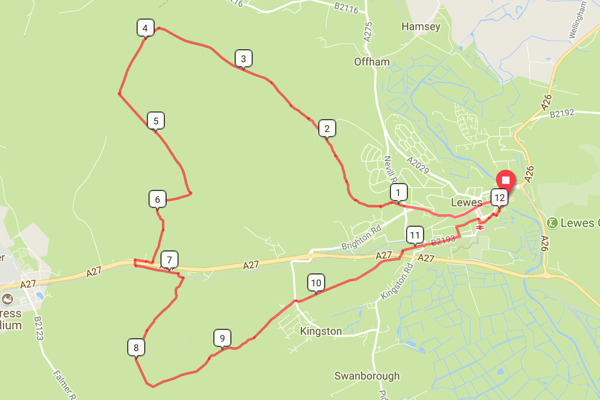
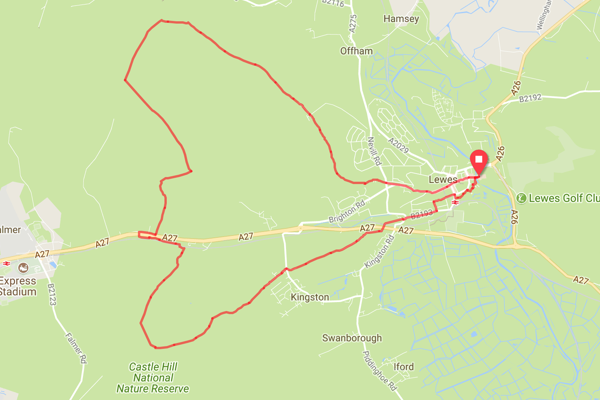
Add 2018 ride route.

diff --git a/_site/index.html b/_site/index.html
@@ -28,8 +28,8 @@
 			<h2 class="p-name">Next Club Ride</h2>
 			<p><strong>» SPECIAL EVENT</strong><br>We’re putting on a special Saturday MTB ride to coincide with the <a href="https://lewesdepot.org/" target="_blank">Lewes Depot</a> Cycle Film Festival over the weekend of the 14th and 15th April.</p>
 			<p>Join us on Saturday <time class="dt-start" datetime="2018-04-14 08:30">14<sup>th</sup> April 2018, from 08:30</time> to <time class="dt-end" datetime="2018-04-14 11:00">11:00</time>* leaving from <a href="https://goo.gl/maps/puKhApf55eT2"><span class="p-location">Cliffe Cycleshack, Lewes</span></a></p>
-			<p class="p-summary">SDW loop (shortened) - Blackcap, Stanmer Park <em>(direction anti-clockwise)</em>.</p>
-			<p><small><em>* Ride times may differ. Times depend on weather, group capabilities ect.</em></small></p>
+			<p class="p-summary">SWD Loop (Lewes, Blackcap, Falmer, Kingston, Lewes), direction anti-clockwise.</p>
+			<p><small><em>* Ride times may differ. Times depend on weather, group capabilities ect. We will try to provide a dropout route for those that that require a shorter route, please note that drop out routes may not be ridden by the ride leader.</em></small></p>
 			<img src="assets/img/special-event/lewes-mtb-club-cycleshack-depot-cycle-film-festival.jpg" alt="">
 		</div>
 		
@@ -38,11 +38,20 @@
 	<div class="wrapping" id="where-we-ride">
 		
 		<h2 class="">Where We Ride</h2>
-		
+		<div class="">
+			<img src="assets/img/routes/lewes-mtb-club-route-small-1.png" alt="">
+			<ul>
+				<li>SWD Loop - shortened with A27 cyclepath dropout option (Lewes, Blackcap, Falmer, Lewes)</li>
+				<li>Size: Small</li>
+				<li>Distance: ~10 miles or ~16 km</li>
+				<li><a href="https://ridewithgps.com/routes/27144669" target="_blank">View the route on Ride With GPS</a></li>
+			</ul>
+			<hr>
+		</div>
 		<div class="">
 			<img src="assets/img/routes/lewes-mtb-club-route-medium-1.png" alt="">
 			<ul>
-				<li>SWD Loop (Lewes, Blackcap, Stanmer Park, Kingston, Lewes)</li>
+				<li>SWD Loop (Lewes, Blackcap, Falmer, Kingston, Lewes)</li>
 				<li>Size: Medium</li>
 				<li>Distance: ~12 miles or ~20 km</li>
 				<li><a href="https://ridewithgps.com/routes/17255851" target="_blank">View the route on Ride With GPS</a></li>
@@ -54,7 +63,7 @@
 			<ul>
 				<li>SWD Loop (Lewes, Blackcap, Stanmer Park, Kingston, Lewes)</li>
 				<li>Size: Medium</li>
-				<li>Distance: ~18 miles or ~29 km</li>
+				<li>Distance: ~19 miles or ~31 km</li>
 				<li><a href="https://ridewithgps.com/routes/15888083" target="_blank">View the route on Ride With GPS</a></li>
 			</ul>
 			<hr>

diff --git a/index.html b/index.html
@@ -28,8 +28,8 @@
 			<h2 class="p-name">Next Club Ride</h2>
 			<p><strong>» SPECIAL EVENT</strong><br>We’re putting on a special Saturday MTB ride to coincide with the <a href="https://lewesdepot.org/" target="_blank">Lewes Depot</a> Cycle Film Festival over the weekend of the 14th and 15th April.</p>
 			<p>Join us on Saturday <time class="dt-start" datetime="2018-04-14 08:30">14<sup>th</sup> April 2018, from 08:30</time> to <time class="dt-end" datetime="2018-04-14 11:00">11:00</time>* leaving from <a href="https://goo.gl/maps/puKhApf55eT2"><span class="p-location">Cliffe Cycleshack, Lewes</span></a></p>
-			<p class="p-summary">SDW loop (shortened) - Blackcap, Stanmer Park <em>(direction anti-clockwise)</em>.</p>
-			<p><small><em>* Ride times may differ. Times depend on weather, group capabilities ect.</em></small></p>
+			<p class="p-summary">SWD Loop (Lewes, Blackcap, Falmer, Kingston, Lewes), direction anti-clockwise.</p>
+			<p><small><em>* Ride times may differ. Times depend on weather, group capabilities ect. We will try to provide a dropout route for those that that require a shorter route, please note that dropout routes may not be ridden by the ride leader.</em></small></p>
 			<img src="assets/img/special-event/lewes-mtb-club-cycleshack-depot-cycle-film-festival.jpg" alt="">
 		</div>
 		
@@ -38,11 +38,20 @@
 	<div class="wrapping" id="where-we-ride">
 		
 		<h2 class="">Where We Ride</h2>
-		
+		<div class="">
+			<img src="assets/img/routes/lewes-mtb-club-route-small-1.png" alt="">
+			<ul>
+				<li>SWD Loop - shortened with A27 cyclepath dropout option (Lewes, Blackcap, Falmer, Lewes)</li>
+				<li>Size: Small</li>
+				<li>Distance: ~10 miles or ~16 km</li>
+				<li><a href="https://ridewithgps.com/routes/27144669" target="_blank">View the route on Ride With GPS</a></li>
+			</ul>
+			<hr>
+		</div>
 		<div class="">
 			<img src="assets/img/routes/lewes-mtb-club-route-medium-1.png" alt="">
 			<ul>
-				<li>SWD Loop (Lewes, Blackcap, Stanmer Park, Kingston, Lewes)</li>
+				<li>SWD Loop (Lewes, Blackcap, Falmer, Kingston, Lewes)</li>
 				<li>Size: Medium</li>
 				<li>Distance: ~12 miles or ~20 km</li>
 				<li><a href="https://ridewithgps.com/routes/17255851" target="_blank">View the route on Ride With GPS</a></li>
@@ -54,7 +63,7 @@
 			<ul>
 				<li>SWD Loop (Lewes, Blackcap, Stanmer Park, Kingston, Lewes)</li>
 				<li>Size: Medium</li>
-				<li>Distance: ~18 miles or ~29 km</li>
+				<li>Distance: ~19 miles or ~31 km</li>
 				<li><a href="https://ridewithgps.com/routes/15888083" target="_blank">View the route on Ride With GPS</a></li>
 			</ul>
 			<hr>
